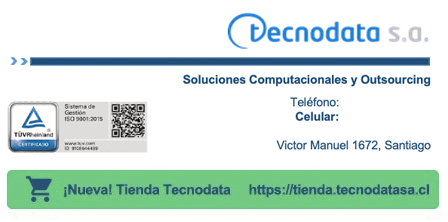
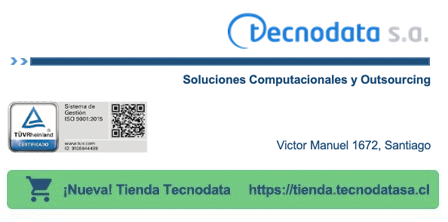
Cambiador de empresas y validador de campos vacios

Changed region(s): [[0.625, 0.4324, 0.7812, 0.5676]]

diff --git a/controllers/trabajador.php b/controllers/trabajador.php
@@ -506,15 +506,20 @@ if( $_POST ){
 if( $parametros ){
 
     if( $parametros[0] == 'lista_firmas' ){
-        $db->where ("empresa_id", $_SESSION[ PREFIX . 'login_eid']);
+
+        $m_empresa = ( $parametros[1] ) ? $parametros[1] : $_SESSION[PREFIX.'login_eid'];
+
+
+        $db->where ("empresa_id", $m_empresa);
         $db->where ("deleted_at", NULL, 'IS');
         $db->where('tipocontrato_id',array(3,4),'NOT IN');
         $db->orderBy('apellidoPaterno','ASC');
         $registros = $db->get("m_trabajador");
         $trabajadors = $registros;
 
-        $cargos = $db->where('empresa_id',$_SESSION[PREFIX.'login_eid'])->orderBy('nombre', 'ASC')->get('m_cargo');
-        $departamentos = $db->where('empresa_id',$_SESSION[PREFIX.'login_eid'])->orderBy('nombre', 'ASC')->get('m_departamento');
+        $cargos = $db->orderBy('nombre', 'ASC')->get('m_cargo');
+        $departamentos = $db->orderBy('nombre', 'ASC')->get('m_departamento');
+        $m_empresas = $db->get('m_empresa');
     }
 
 
@@ -523,65 +528,68 @@ if( $parametros ){
         Header("Content-type: image/png");
 
 
-            $im = imagecreatefrompng(ROOT . '/public/img/firma_base.png');
-            $font_color = imagecolorallocate($im, 65, 100, 160);
-            $font_regular = ROOT . '/public/font/Arial.ttf';
-            $font_bold = ROOT . '/public/font/ArialBold.ttf';
+        $im = imagecreatefrompng(ROOT . '/public/img/firma_base.png');
+        $font_color = imagecolorallocate($im, 65, 100, 160);
+        $font_regular = ROOT . '/public/font/Arial.ttf';
+        $font_bold = ROOT . '/public/font/ArialBold.ttf';
 
-            $first_name = explode(" ", utf8_decode($_POST['nombres']));
-            $first_name = strtolower($first_name[0]);
-            $apellidoPaterno = strtolower( utf8_decode($_POST['apellidoPaterno']) );
-            $apellidoMaterno = strtolower( utf8_decode($_POST['apellidoMaterno']) );
+        $first_name = explode(" ", utf8_decode($_POST['nombres']));
+        $first_name = strtolower($first_name[0]);
+        $apellidoPaterno = strtolower( utf8_decode($_POST['apellidoPaterno']) );
+        $apellidoMaterno = strtolower( utf8_decode($_POST['apellidoMaterno']) );
 
 
-            //$filename = $trabajador['apellidoPaterno'] . '-' . $trabajador['apellidoPaterno'] . '-' . $trabajador['nombres'];
-            //$filename = 'trabajador_' .;
+        //$filename = $trabajador['apellidoPaterno'] . '-' . $trabajador['apellidoPaterno'] . '-' . $trabajador['nombres'];
+        //$filename = 'trabajador_' .;
 
-            $nombre = ucwords( $first_name . ' ' . $apellidoPaterno . ' ' . $apellidoMaterno );
-            $cargo = ucwords(strtolower( utf8_decode($_POST['cargo_id']) ));
-            $email = 'Email: ' . strtolower($_POST['email']);
-            $telefono = $_POST['telefono'];
-            $celular = $_POST['celular'];
+        $nombre = ucwords( $first_name . ' ' . $apellidoPaterno . ' ' . $apellidoMaterno );
+        $cargo = ucwords(strtolower( utf8_decode($_POST['cargo_id']) ));
+        $email = 'Email: ' . strtolower($_POST['email']);
+        $telefono = ( $_POST['telefono'] ) ? 'Teléfono: ' . $_POST['telefono'] : '';
+        $celular = ($_POST['celular']) ? 'Celular: ' . $_POST['celular'] : '';
 
-            //show_array('generando firma de "' . $nombre .'" ...................................[OK]',0);
+        //show_array('generando firma de "' . $nombre .'" ...................................[OK]',0);
 
-            // Escribir nombre
-            $dimensions = imagettfbbox(11, 0, $font_bold, $nombre);
-            $textWidth = abs($dimensions[4] - $dimensions[0]);
-            $x = (imagesx($im) - $textWidth - 240);
-            imagettftext($im, 11, 0, $x, 30, $font_color, $font_bold, $nombre);
+        // Escribir nombre
+        $dimensions = imagettfbbox(11, 0, $font_bold, $nombre);
+        $textWidth = abs($dimensions[4] - $dimensions[0]);
+        $x = (imagesx($im) - $textWidth - 240);
+        imagettftext($im, 11, 0, $x, 30, $font_color, $font_bold, $nombre);
 
-            // Escribir Cargo
-            $dimensions = imagettfbbox(10, 0, $font_bold, $cargo);
-            $textWidth = abs($dimensions[4] - $dimensions[0]);
-            $x = (imagesx($im) - $textWidth - 240);
-            imagettftext($im, 10, 0, $x, 50, $font_color, $font_bold, $cargo);
+        // Escribir Cargo
+        $dimensions = imagettfbbox(10, 0, $font_bold, $cargo);
+        $textWidth = abs($dimensions[4] - $dimensions[0]);
+        $x = (imagesx($im) - $textWidth - 240);
+        imagettftext($im, 10, 0, $x, 50, $font_color, $font_bold, $cargo);
 
-            // Escribir Email
-            $dimensions = imagettfbbox(9, 0, $font_bold, $email);
-            $textWidth = abs($dimensions[4] - $dimensions[0]);
-            $x = (imagesx($im) - $textWidth - 17);
-            imagettftext($im, 9, 0, $x, 135, $font_color, $font_bold, $email);
+        // Escribir Email
+        $dimensions = imagettfbbox(9, 0, $font_bold, $email);
+        $textWidth = abs($dimensions[4] - $dimensions[0]);
+        $x = (imagesx($im) - $textWidth - 17);
+        imagettftext($im, 9, 0, $x, 135, $font_color, $font_bold, $email);
 
-           
+
+        if( $celular ):
              // Escribir celular
             $dimensions = imagettfbbox(9, 0, $font_bold, $celular);
             $textWidth = abs($dimensions[4] - $dimensions[0]);
             $x = (imagesx($im) - $textWidth - 16);
             imagettftext($im, 9, 0, $x, 122, $font_color, $font_bold, $celular);
-
-           
+        endif;
+       
+        if( $telefono ):
              // Escribir telefono
             $dimensions = imagettfbbox(9, 0, $font_bold, $telefono);
             $textWidth = abs($dimensions[4] - $dimensions[0]);
             $x = (imagesx($im) - $textWidth - 16);
             imagettftext($im, 9, 0, $x, 107, $font_color, $font_bold, $telefono);
+        endif;
 
 
-            // Using imagepng() results in clearer text compared with imagejpeg()
-            //$save = ROOT . '/public/img/firmas/' . $filename . '.png';
-            imagepng($im);
-            imagedestroy($im);
+        // Using imagepng() results in clearer text compared with imagejpeg()
+        //$save = ROOT . '/public/img/firmas/' . $filename . '.png';
+        imagepng($im);
+        imagedestroy($im);
 
 
         exit();

diff --git a/views/trabajador/lista_firmas.php b/views/trabajador/lista_firmas.php
@@ -60,6 +60,13 @@
 
         <div class="overlayer_int"><i class="fa fa-refresh fa-spin"></i></div>
         
+        <select class="form-control" name="m_empresa" style="width: 300px;">
+            <option value="">Seleccione empresa</option>
+            <?php foreach ($m_empresas as $key => $empresa) { ?>
+            <option value="<?php echo $empresa['id'] ?>"><?php echo $empresa['nombre'] ?></option>
+            <?php } ?>
+        </select>
+
         <?php if( $registros ){ ?>
           <table id="trabajadores_list" class="table table-bordered table-striped">
             <thead>
@@ -191,6 +198,12 @@ $("input").blur(function(){
         }
     })
 })
+
+$("[name=m_empresa]").change(function(){
+    empresa = $(this).val();
+    location.href = '<?php echo BASE_URL ?>/trabajador/lista_firmas/' + empresa;
+})
+
 
 $("select").change(function(){
     regid = $(this).closest('tr').data('id');
